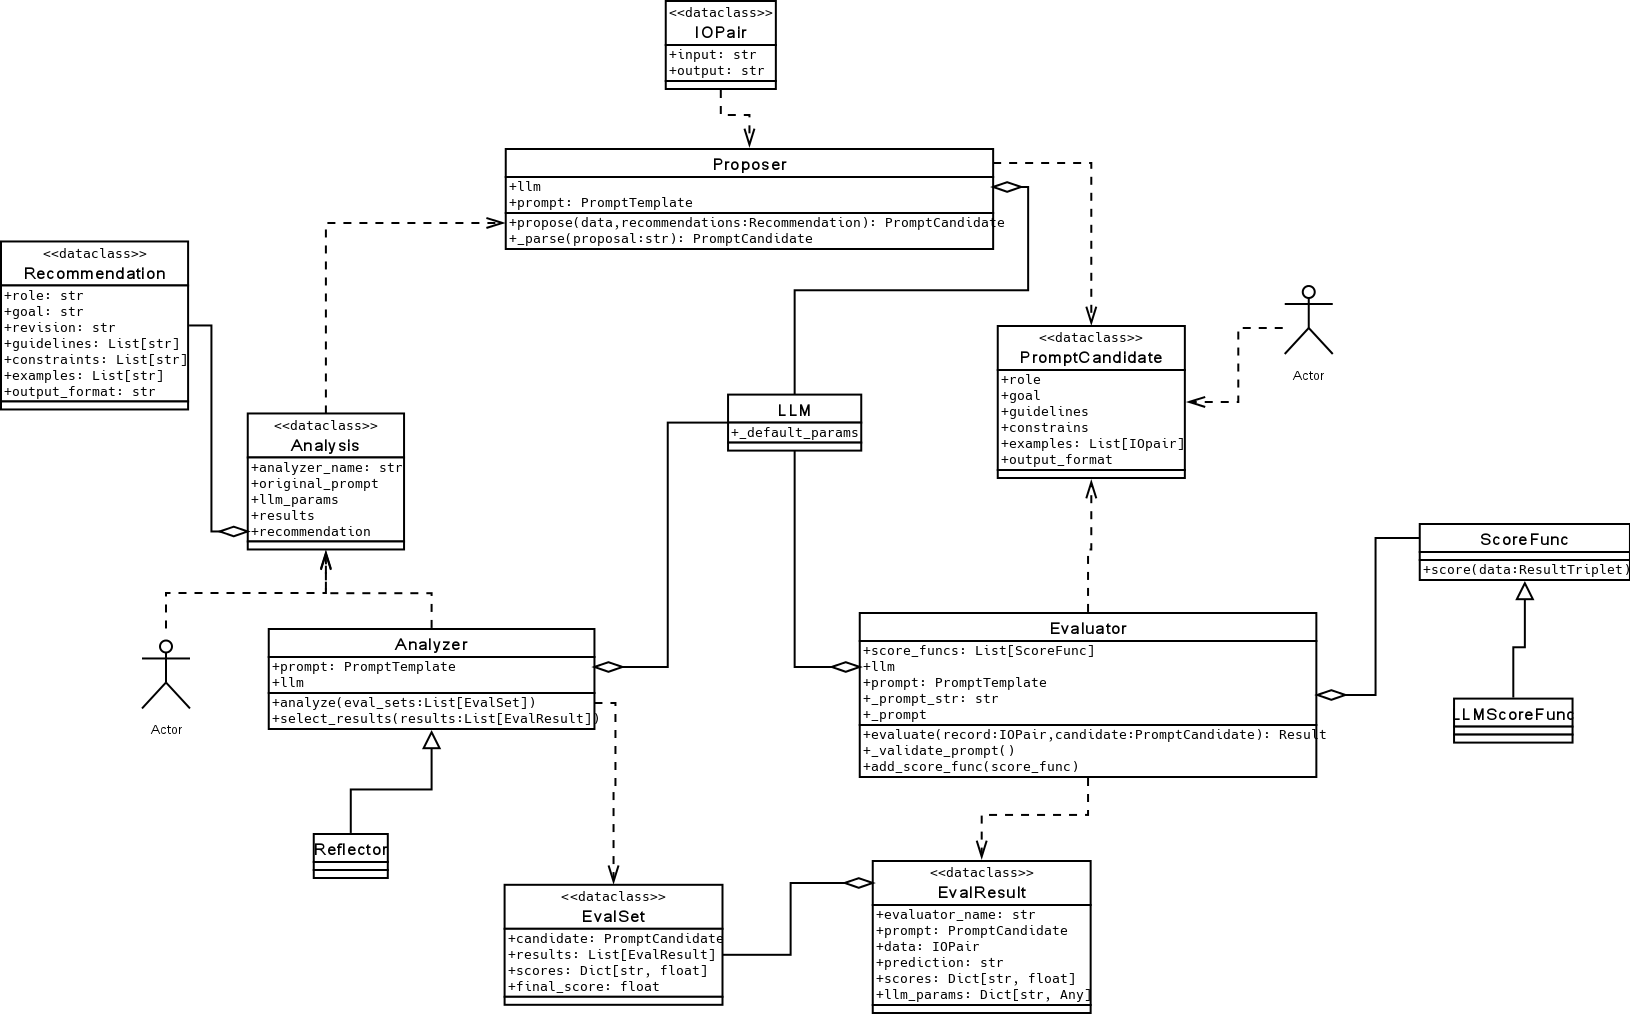
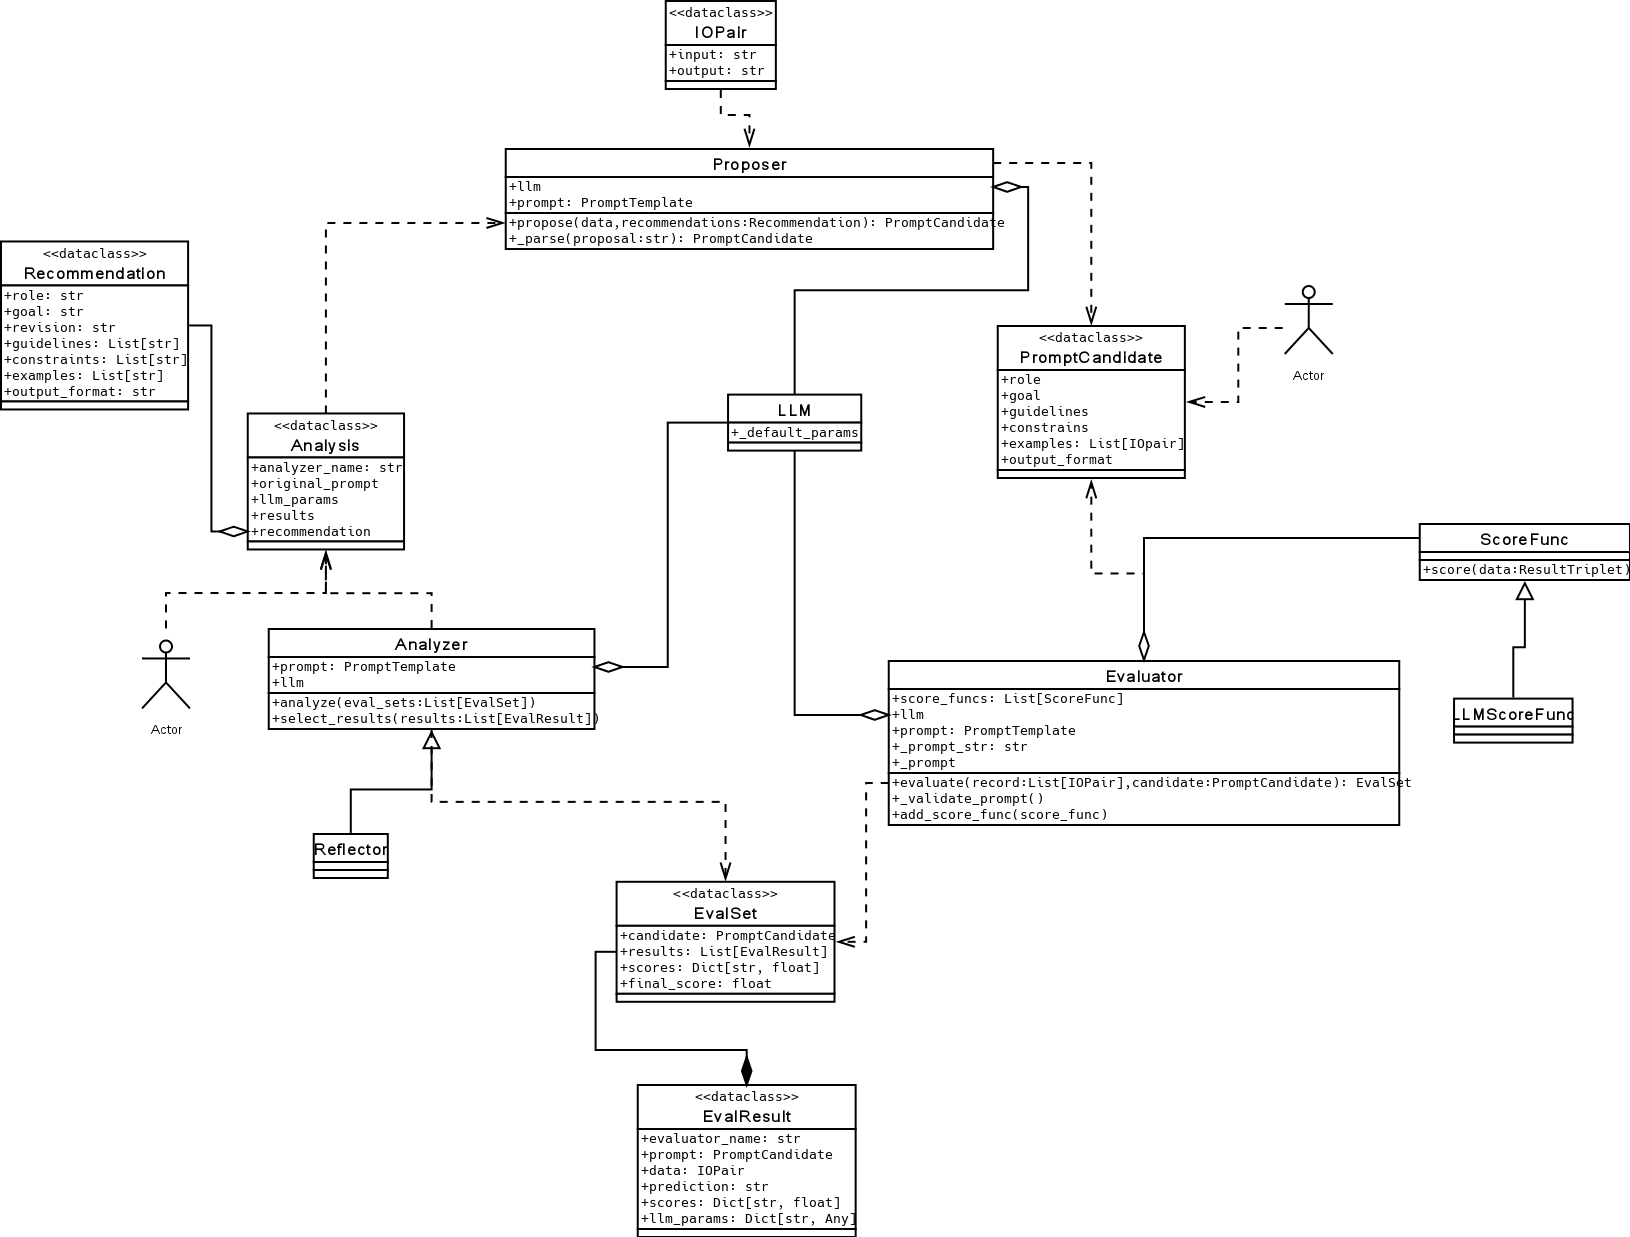
Refactor Evaluator.eval to take a list of IOPair and emit an EvalSet

diff --git a/ppromptor/evaluators/__init__.py b/ppromptor/evaluators/__init__.py
@@ -5,7 +5,7 @@ from langchain.chains.llm import LLMChain
 from langchain.chat_models import ChatOpenAI
 from langchain.llms.base import BaseLLM
 from langchain.prompts import PromptTemplate
-from ppromptor.base.schemas import EvalResult, IOPair, PromptCandidate
+from ppromptor.base.schemas import EvalResult, EvalSet, IOPair, PromptCandidate
 from ppromptor.config import PP_VERBOSE
 from ppromptor.loggers import logger
 from ppromptor.scorefuncs import BaseScoreFunc
@@ -42,8 +42,8 @@ class BaseEvaluator:
     def add_score_func(self, score_func):
         self.score_funcs.append(score_func)
 
-    def evaluate(self, record: IOPair,  # type: ignore[empty-body]
-                 candidate: PromptCandidate) -> EvalResult:
+    def evaluate(self, record: List[IOPair],  # type: ignore[empty-body]
+                 candidate: PromptCandidate) -> EvalSet:
         pass
 
 
@@ -65,35 +65,65 @@ class Evaluator(BaseEvaluator):
         """
         super().__init__(llm)
 
-    def eval(self, record: IOPair, candidate: PromptCandidate) -> EvalResult:
+    def _get_scores(self, results) -> dict:
+        res = {}
+
+        for res in results:
+            for key, value in res.items():
+                if key not in res:
+                    res[key] = value
+                else:
+                    res[key] += value
+        return res
+
+    def _get_final_score(self, results) -> float:
+        score = 0.0
+
+        for res in results:
+            for key, value in res.items():
+                score += value
+        return score
+
+    def eval(self, records: List[IOPair],
+             candidate: PromptCandidate) -> EvalSet:
 
         chain = LLMChain(llm=self.llm, prompt=self.prompt, verbose=PP_VERBOSE)
 
-        data = {
-            "role": candidate.role,
-            "goal": candidate.goal,
-            "input": record.input,
-            "guidelines": bulletpointize(candidate.guidelines),
-            "constraints": bulletpointize(candidate.constraints)
-        }
+        results = []
 
-        pred = chain(data)["text"].strip()
+        for record in records:
+            data = {
+                "role": candidate.role,
+                "goal": candidate.goal,
+                "input": record.input,
+                "guidelines": bulletpointize(candidate.guidelines),
+                "constraints": bulletpointize(candidate.constraints)
+            }
 
-        rec_scores = {}
-        for sf in self.score_funcs:
-            rec_scores[sf.name] = sf.score(candidate,
-                                           record,
-                                           pred)
+            pred = chain(data)["text"].strip()
 
-        logger.debug(f"Evaluator Prediction: {pred}")
-        logger.debug(f"Evaluator Answer: {record.output}")
-        logger.debug(f"Score: {rec_scores}")
+            rec_scores = {}
+            for sf in self.score_funcs:
+                rec_scores[sf.name] = sf.score(candidate,
+                                               record,
+                                               pred)
 
-        res = EvalResult(self.__class__.__name__,
-                         candidate,
-                         record,
-                         pred,
-                         rec_scores,
-                         llm_params=get_llm_params(self.llm))
+            logger.debug(f"Evaluator Prediction: {pred}")
+            logger.debug(f"Evaluator Answer: {record.output}")
+            logger.debug(f"Score: {rec_scores}")
 
-        return res
+            res = EvalResult(self.__class__.__name__,
+                             candidate,
+                             record,
+                             pred,
+                             rec_scores,
+                             llm_params=get_llm_params(self.llm))
+            results.append(res)
+
+        scores = [x.scores for x in results]
+        res_set = EvalSet(candidate=candidate,
+                          results=results,
+                          scores=self._get_scores(scores),
+                          final_score=self._get_final_score(scores)
+                          )
+        return res_set

diff --git a/ppromptor/agent.py b/ppromptor/agent.py
@@ -48,35 +48,16 @@ class SimpleAgent(BaseAgent):
             # 2. Evaluate Candidates and Generate EvalResults
             evaluator = Evaluator(self.eval_llm)
             evaluator.add_score_func(SequenceMatcherScore(llm=None))
-            # results = []
-            eval_set = EvalSet(candidate)
-            scores = {}
 
-            for rec in dataset:
-                res = evaluator.eval(rec, candidate)
-                eval_set.results.append(res)
-
-            final_score: float = 0.0
-            for res in eval_set.results:
-                for key, value in res.scores.items():
-                    final_score += value
-                    if key not in scores:
-                        scores[key] = value
-                    else:
-                        scores[key] += value
-
-            eval_set.scores = scores
-            eval_set.final_score = final_score
-
-            self.db_sess.add(eval_set)
-            self.db_sess.commit()
+            eval_set = evaluator.eval(dataset, candidate)
 
             if self.db_sess:
+                self.db_sess.add(eval_set)
                 for res in eval_set.results:
                     self.db_sess.add(res)
                 self.db_sess.commit()
 
-            logger.info(f"Final score: {final_score}")
+            logger.info(f"Final score: {eval_set.final_score}")
 
             # 3. Analyze EvalResults and Generate Analysis and Recommendation
             reports = []

diff --git a/tests/test_schemas/test_eval_result.py b/tests/test_schemas/test_eval_result.py
@@ -1,5 +1,5 @@
 import pytest
-from ppromptor.base.schemas import (Analysis, EvalResult, IOPair,
+from ppromptor.base.schemas import (Analysis, EvalResult, EvalSet, IOPair,
                                     PromptCandidate, Recommendation)
 
 
@@ -12,3 +12,28 @@ def test_EvalResult():
             scores={},
             llm_params={}
     )
+
+
+def test_EvalSet():
+    res1 = EvalResult(
+            evaluator_name="evaluator",
+            prompt=None,
+            data="",
+            prediction="",
+            scores={},
+            llm_params={}
+    )
+
+    res2 = EvalResult(
+            evaluator_name="evaluator",
+            prompt=None,
+            data="",
+            prediction="",
+            scores={},
+            llm_params={}
+    )
+
+    eval_set = EvalSet(candidate=None,
+                       results=[res1, res2],
+                       scores={},
+                       final_score=0.0)
